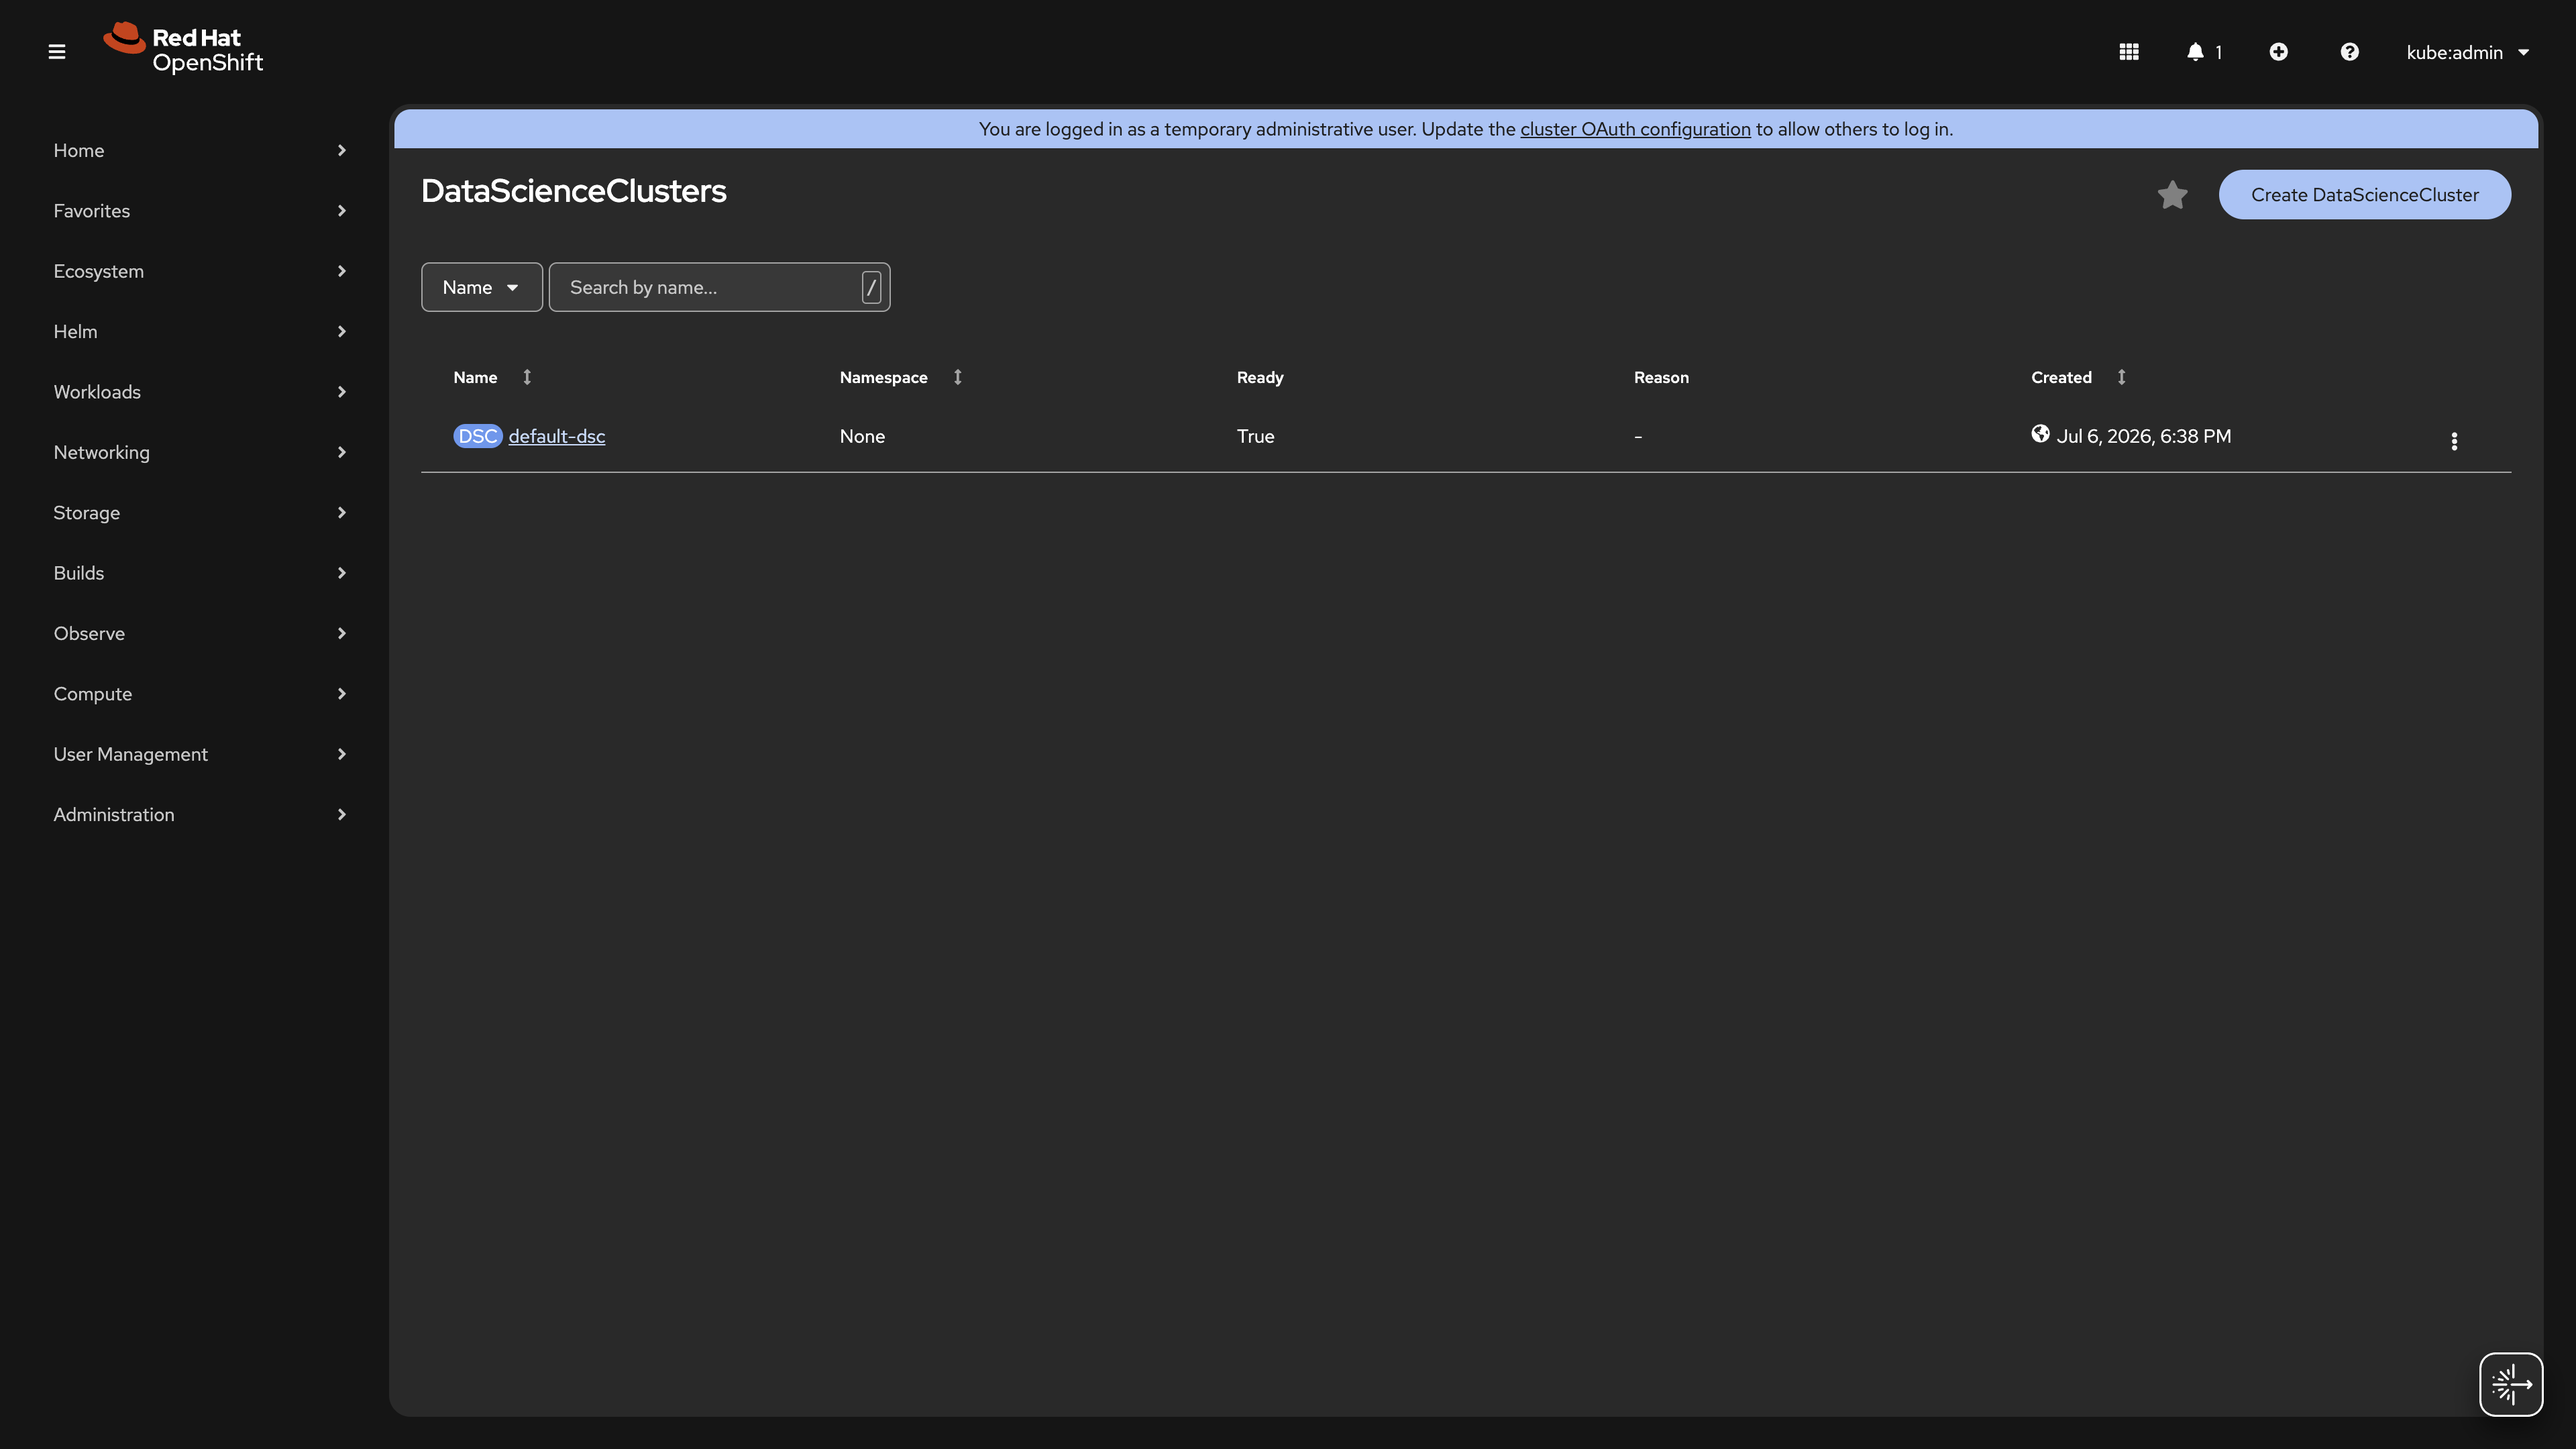
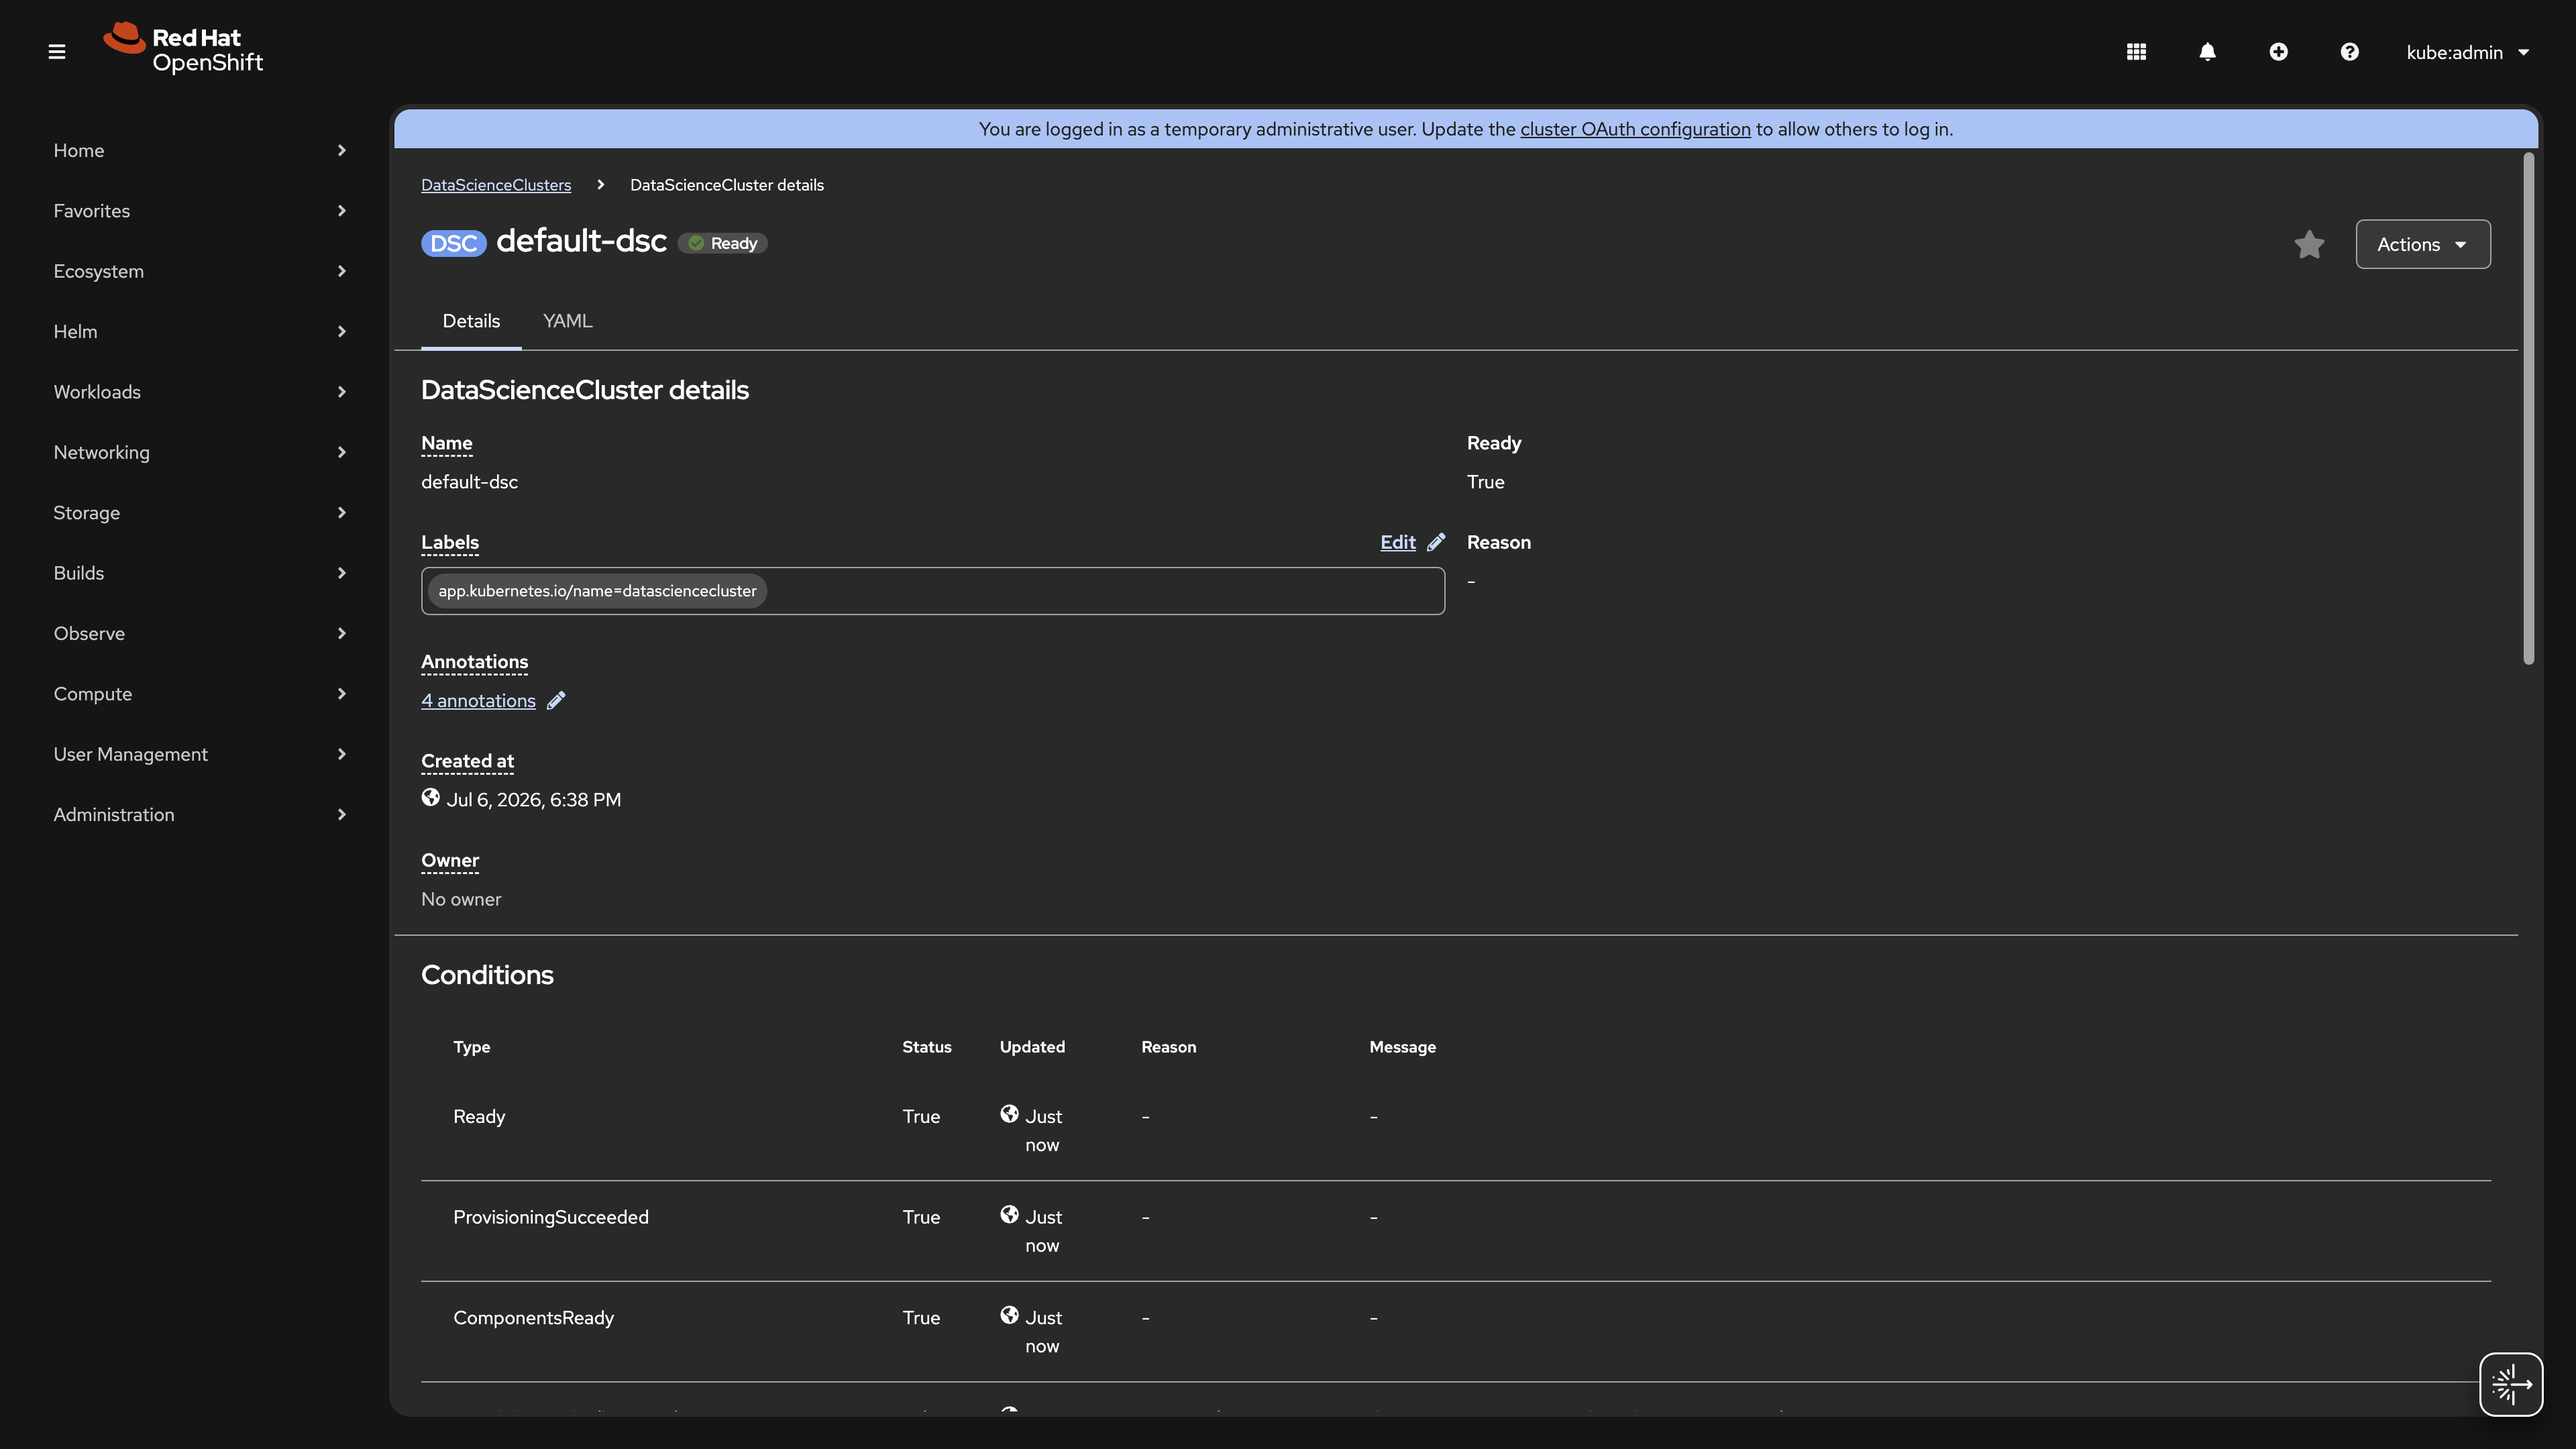
fix: size cq-gpu-reserved-demo for two private models
The imported queue reserved one L40S for rhoai3-demo's single model;
the coding demo serves nemotron and qwen concurrently. GPU quota 1->2,
memory 32Gi->48Gi (16Gi + 20Gi requests plus headroom), cpu 8->12.
Found live: qwen Pending with 'insufficient unused quota' while
nemotron held the full reservation - Kueue governance working as
designed on an undersized queue.

diff --git a/stages/020-gpu-infrastructure-private-ai/README.md b/stages/020-gpu-infrastructure-private-ai/README.md
@@ -148,15 +148,29 @@ access through Models-as-a-Service.
 
 ## Demo
 
-![Stage 020 walkthrough](../../docs/assets/demos/stage-020/stage-020-demo.gif)
+### Hardware Profile Selection
 
-| Screenshot | What it shows |
-|------------|---------------|
-| ![Workbench form](../../docs/assets/demos/stage-020/01-create-workbench-form.png) | Create workbench form with deployment size section |
-| ![Hardware profiles](../../docs/assets/demos/stage-020/02-hardware-profiles-dropdown.png) | Hardware profile dropdown showing GPU options |
-| ![GPU selected](../../docs/assets/demos/stage-020/03-gpu-shared-selected.png) | GPU Shared Time-Slicing profile selected |
-| ![MachineSet](../../docs/assets/demos/stage-020/04-machineset-gpu-node.png) | GPU MachineSet managing the g5.2xlarge node |
-| ![Kueue](../../docs/assets/demos/stage-020/05-kueue-clusterqueues.png) | Kueue ClusterQueues for GPU quota management |
+The workbench creation form exposes GPU capacity as simple dropdown choices — no node taints or tolerations required.
+
+![Hardware Profiles Dropdown](../../docs/assets/demos/stage-020/02-hardware-profiles-dropdown.png)
+
+### GPU Shared Profile Selected
+
+Selecting "GPU Shared - 1x NVIDIA" shows the resource specifications: CPU, memory, and one NVIDIA GPU from the shared capacity pool.
+
+![GPU Shared Selected](../../docs/assets/demos/stage-020/03-gpu-shared-selected.png)
+
+### GPU MachineSet
+
+The AWS g6e.2xlarge GPU MachineSet providing L40S capacity, managed by OpenShift Machine API and tracked in GitOps.
+
+![GPU MachineSet](../../docs/assets/demos/stage-020/04-machineset-gpu-node.png)
+
+### Kueue ClusterQueues
+
+Queue-based GPU governance with cohort-based fair sharing between `cq-gpu-priority` and `cq-gpu-shared`, plus isolated `cq-gpu-reserved-demo` capacity.
+
+![Kueue ClusterQueues](../../docs/assets/demos/stage-020/05-kueue-clusterqueues.png)
 
 ---
 
